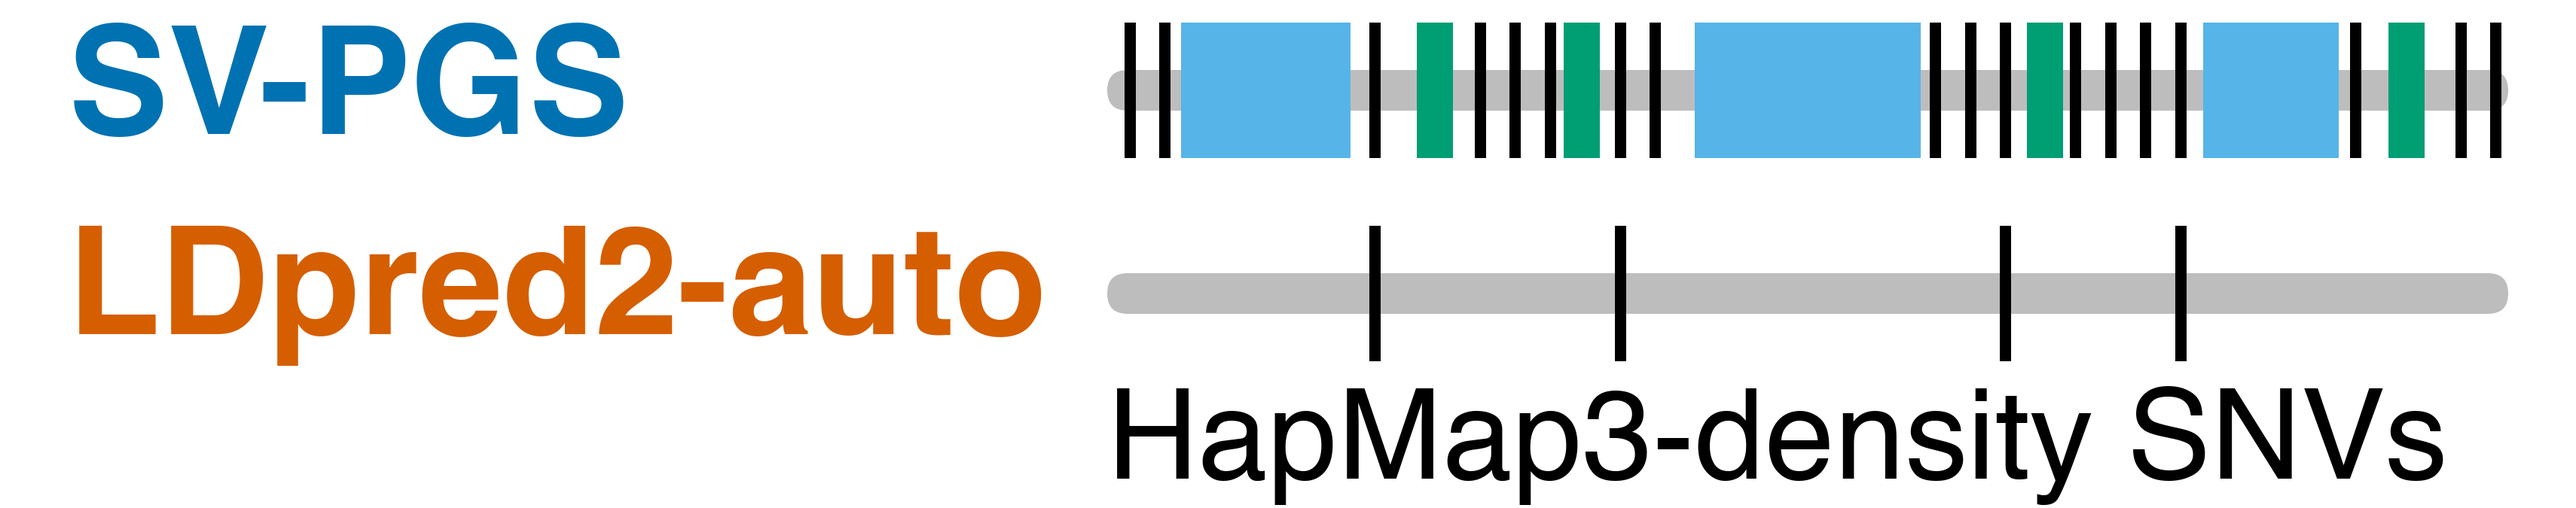
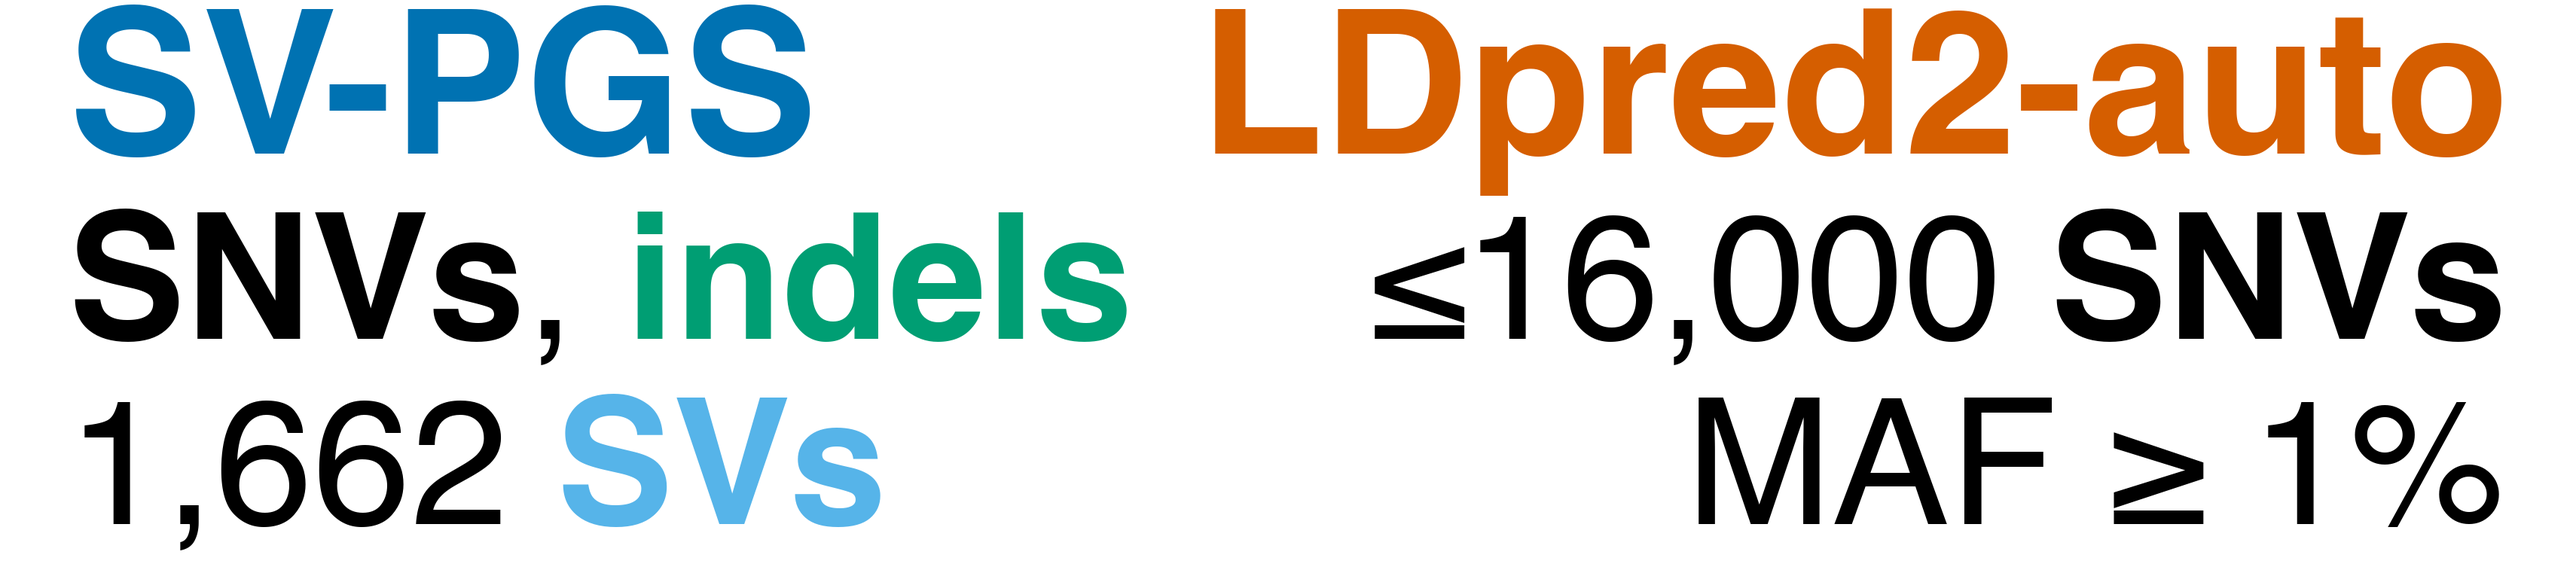
The poster's simulation design shows the variants each method is given as two labelled columns instead of a drawn chromosome (docs/poster/ashg2026/sim_gallery.py). The old schematic drew made-up ticks and blocks on two grey tracks and did not say what they counted. The new panel puts SV-PGS at the l

diff --git a/docs/poster/ashg2026/sim_gallery.py b/docs/poster/ashg2026/sim_gallery.py
@@ -1059,8 +1059,8 @@ one variant on a chromosome (one base for an SNV, a few for an indel, many for a
 SCHEMATICS = {
     "poster_model": "An SNV, an indel and an SV on a chromosome, each class with its own effect-size prior (the SV's "
                     "narrower at low imputation r²), all fitted together into SV-PGS.",
-    "poster_variants": "One stretch of chromosome: SV-PGS scores every SNV, indel and SV; LDpred2-auto scores SNVs at "
-                       "HapMap3 density.",
+    "poster_variants": "The variants each method is given: SV-PGS every imputed SNV, indel and SV; LDpred2-auto at most "
+                       "16,000 SNVs of MAF ≥ 1%, at HapMap3 density.",
 }
 """Each schematic's one-sentence description, which build_pptx.py uses as its picture's alt text."""
 
@@ -1133,25 +1133,41 @@ def poster_model_figure():
     return fig
 
 
-def poster_variants_figure():
-    """The variants each method scores on one stretch of chromosome: every SNV, indel and SV for SV-PGS, a sparse
-    subset of the SNVs for LDpred2-auto (HapMap3 density)."""
-    height = 2.25
+HAPMAP3_SNVS = 16_000
+"""The most SNVs LDpred2-auto is given: HapMap3's chr22 count (benchmarks/bench_sim/submissions/ldpred2_auto.py)."""
+
+
+def phrase(ax, x: float, y: float, pieces, ha: str = "left") -> None:
+    """``pieces``, (text, colour, bold), set one after another on the baseline ``y`` in tick type, starting at ``x``
+    (or ending there, for ``ha="right"``)."""
+    renderer = ax.figure.canvas.get_renderer()
+    artists = [ax.text(x, y, piece, ha="left", va="baseline", color=colour, fontweight="bold" if bold else "normal")
+               for piece, colour, bold in pieces]
+    widths = [artist.get_window_extent(renderer).width / ax.figure.dpi for artist in artists]
+    x -= sum(widths) if ha == "right" else 0.0
+    for artist, width in zip(artists, widths):
+        artist.set_x(x)
+        x += width
+
+
+def poster_variants_figure(summary):
+    """The variants each method is given in the grid, one column per method: SV-PGS every imputed SNV, indel and SV
+    (the SVs counted), LDpred2-auto at most HapMap3's chr22 count of SNVs, all of MAF >= 1%."""
+    svs = summary["genotype_accuracy"]["r2_by_frequency"]["SV"]["records"]
+    height = 2.55
     fig, ax = canvas(height)
-    start, end = 4.9, COLUMN - EDGE
-    # SVs, then indels clear of them, then SNVs every 0.155 in clear of both; LDpred2-auto keeps every fourth SNV
-    svs = ((5.6, 0.75), (8.0, 1.0), (10.05, 0.6))
-    indels = [x for x in (6.35, 7.0, 9.05, 10.65) if all(abs(x - centre) > width / 2 + 0.1 for centre, width in svs)]
-    snvs = [x for x in np.arange(start + 0.1, end - 0.05, 0.155)
-            if all(abs(x - centre) > width / 2 + 0.06 for centre, width in svs)
-            and all(abs(x - indel) > 0.13 for indel in indels)]
-    rows = ((height - 0.4, "SV-PGS", SV_PGS, [(c, w, IMPUTED) for c, w in svs] + [(c, 0.16, GREEN) for c in indels]
-             + [(c, 0.05, INK) for c in snvs]),
-            (height - 1.3, "LDpred2-auto", LDPRED2, [(c, 0.05, INK) for c in snvs[2::4]]))
-    for y, name, colour, marks in rows:
-        ax.text(EDGE, y, name, ha="left", va="center", color=colour, fontsize=POSTER_NAME, fontweight="bold")
-        chromosome(ax, start, end, y, marks, tall=0.6)
-    ax.text(start, 0.28, "HapMap3-density SNVs", ha="left", va="center", color=INK)
+    first, second = height - 0.68, height - 1.5
+    # SV-PGS's column starts at the left margin and LDpred2-auto's ends at the right one, so the two stand apart
+    columns = (
+        (EDGE, "left", "SV-PGS", SV_PGS, ([("SNVs", INK, True), (", ", INK, False), ("indels", GREEN, True)],
+                                           [(f"{svs:,} ", INK, False), ("SVs", IMPUTED, True)])),
+        (COLUMN - EDGE, "right", "LDpred2-auto", LDPRED2, ([(f"≤{HAPMAP3_SNVS:,} ", INK, False), ("SNVs", INK, True)],
+                                                           [("MAF ≥ 1%", INK, False)])),
+    )
+    for x, ha, name, colour, lines in columns:
+        ax.text(x, first, name, ha=ha, va="baseline", color=colour, fontsize=POSTER_NAME, fontweight="bold")
+        for y, pieces in zip((second, second - 0.82), lines):
+            phrase(ax, x, y, pieces, ha)
     return fig
 
 
@@ -1183,7 +1199,7 @@ def main() -> None:
                             ("poster_wins", poster_wins_figure(grids)),
                             ("poster_sv_gain", poster_sv_gain_figure(grids)),
                             ("poster_imputation_accuracy", poster_imputation_figure(summary)),
-                            ("poster_model", poster_model_figure()), ("poster_variants", poster_variants_figure())):
+                            ("poster_model", poster_model_figure()), ("poster_variants", poster_variants_figure(summary))):
             # transparent, so the page shows through: an opaque white ground renders a shade off the page white in a PDF
             panel.savefig(OUT / f"{name}.png", transparent=True)
             plt.close(panel)
